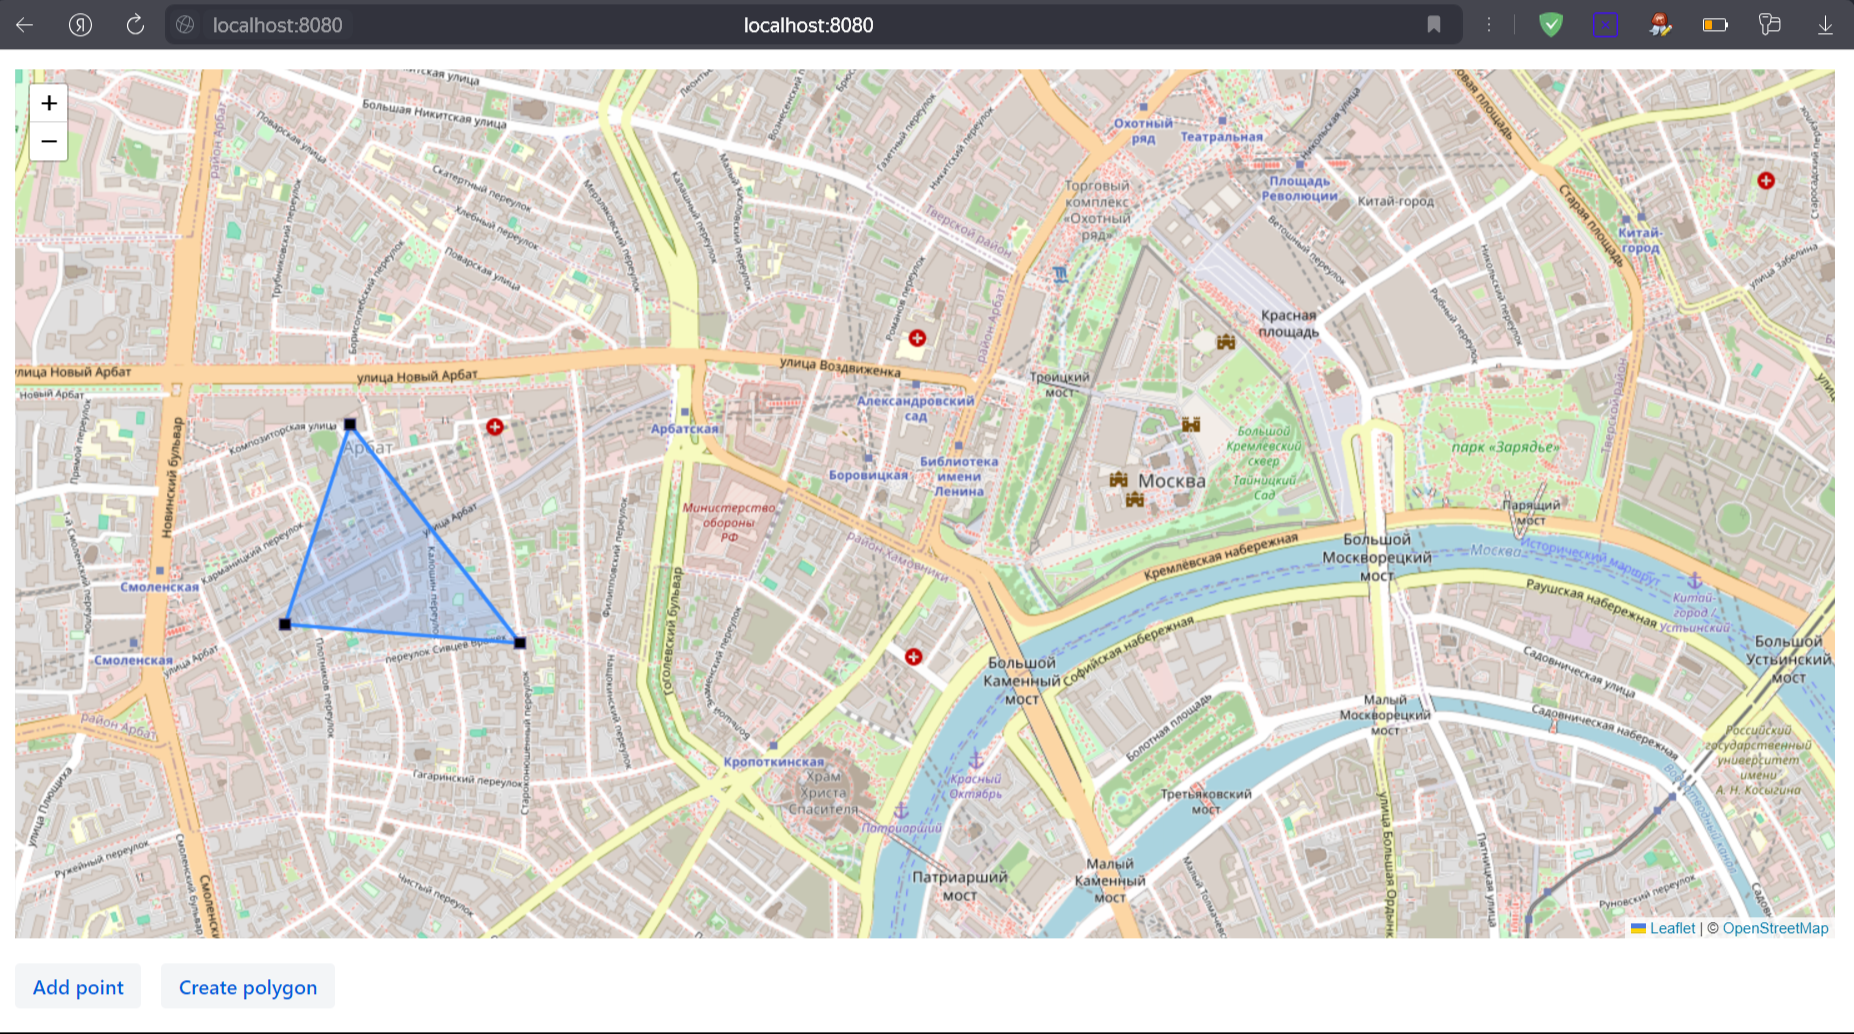
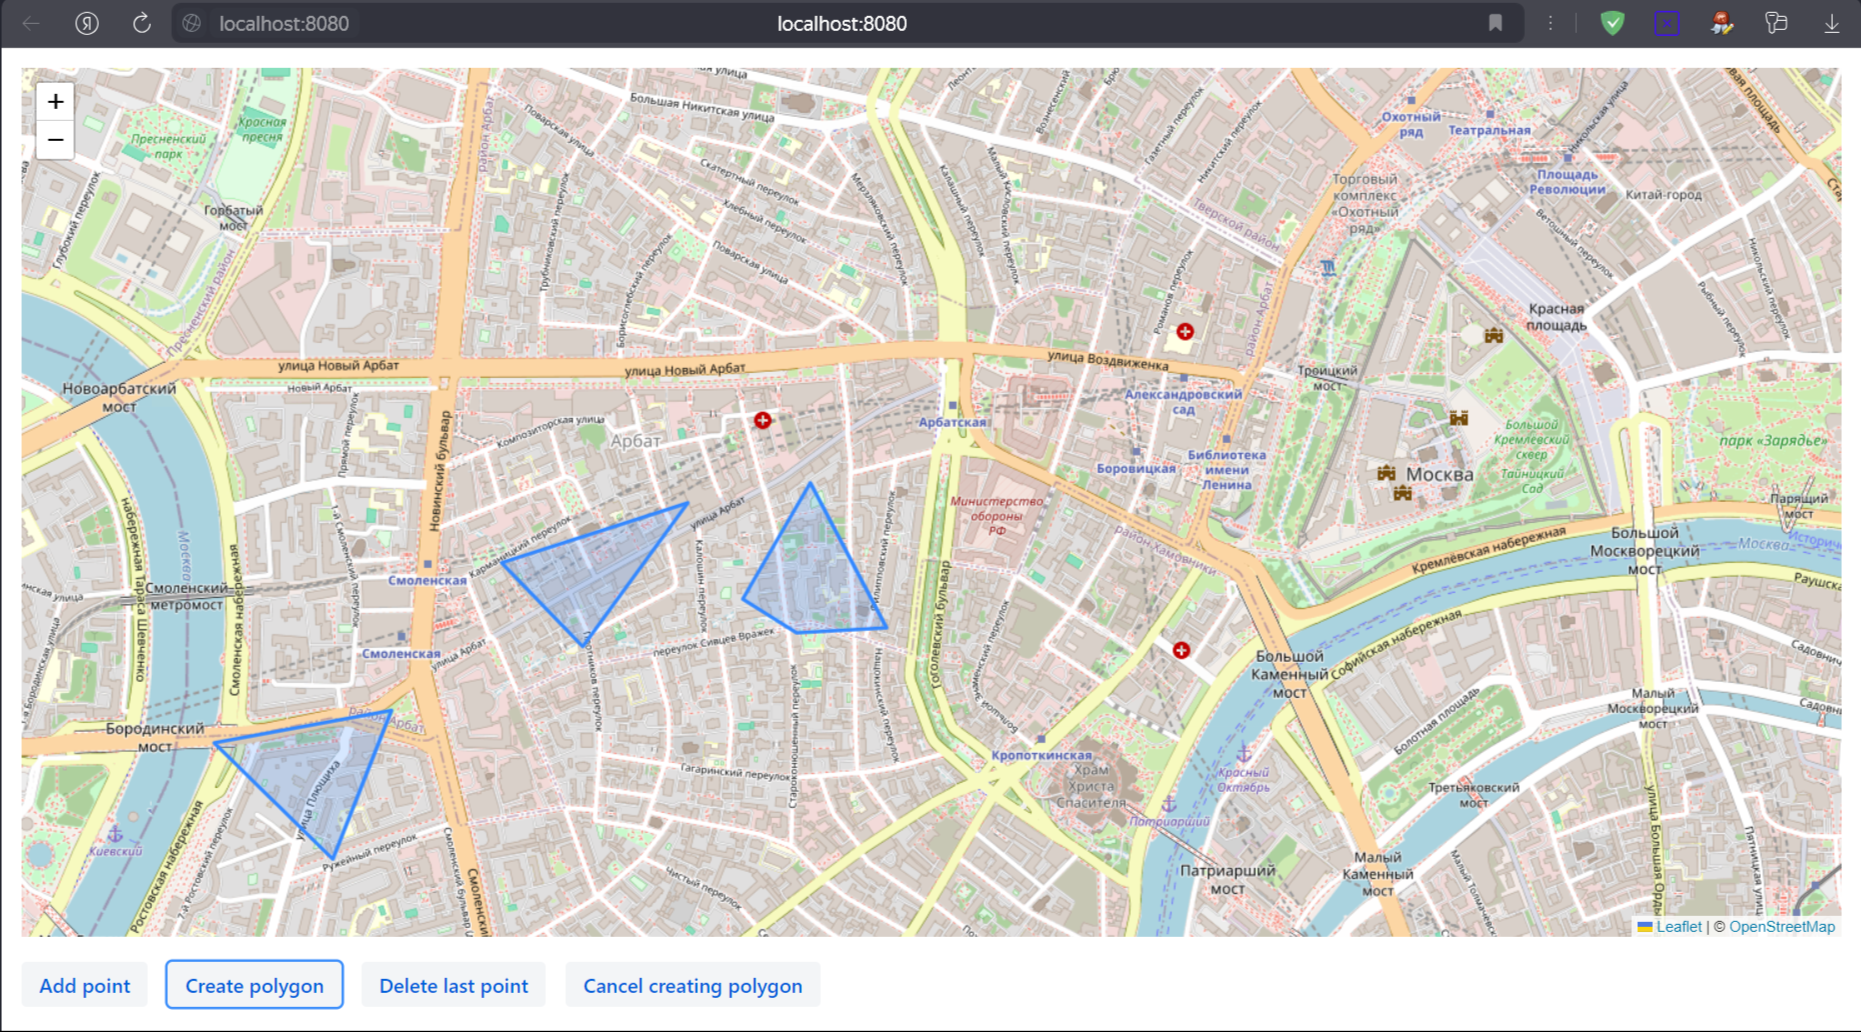
added buttons: delete last point, cancel creating polygon

diff --git a/src/main/java/ru/edd/stupor_maps/view/Maps.java b/src/main/java/ru/edd/stupor_maps/view/Maps.java
@@ -22,9 +22,6 @@ import software.xdev.vaadin.maps.leaflet.registry.LDefaultComponentManagementReg
 
 import java.util.ArrayList;
 import java.util.List;
-import java.util.Queue;
-import java.util.concurrent.ConcurrentLinkedQueue;
-
 
 
 @Route("")
@@ -32,7 +29,8 @@ public class Maps extends VerticalLayout {
     private final String ID = "myMap";
     private final LComponentManagementRegistry reg;
 
-    private final Queue<Coordinates> pointsPolygon = new ConcurrentLinkedQueue<>();
+    private List<Coordinates> pointsPolygonCoordinates = new ArrayList<>();
+    private List<LMarker> markers = new ArrayList<>();
 
     private final LMap map;
 
@@ -60,13 +58,20 @@ public class Maps extends VerticalLayout {
 
         Button createPolygon = new Button("Create polygon", this::creatingPolygon);
         Button addPoint = new Button("Add point", ev -> map.on("click", clickFuncReference));
+        Button cancelCreatingPolygon = new Button("Cancel creating polygon", this::cancelCreatingPolygon);
+        Button deleteLastPoint = new Button("Delete last point", this::deleteLastPoint);
 
-        hlButtons.add(addPoint);
-        hlButtons.add(createPolygon);
+        hlButtons.add(addPoint, createPolygon, deleteLastPoint, cancelCreatingPolygon);
         hlButtons.setWidthFull();
 
         return hlButtons;
     }
+
+    private void deleteLastPoint(ClickEvent<Button> buttonClickEvent) {
+            pointsPolygonCoordinates.remove(pointsPolygonCoordinates.size()-1);
+            map.removeLayer(markers.remove(markers.size()-1));
+    }
+
     private LMap configureMap() {
         final LMap map;
         final MapContainer mapContainer = new MapContainer(reg);
@@ -87,16 +92,28 @@ public class Maps extends VerticalLayout {
 
         List<LLatLng> lLatLngs = new ArrayList<>();
 
-        while (!pointsPolygon.isEmpty()) {
-            Coordinates coordinates = pointsPolygon.poll();
+        for (Coordinates coordinates : pointsPolygonCoordinates) {
             lLatLngs.add(new LLatLng(reg, coordinates.getX(), coordinates.getY()));
 
-            System.out.printf("%d. x = %s, y = %s%n", count, coordinates.getX(), coordinates.getY());
-            count++;
+            System.out.printf("%d. x = %s, y = %s%n",
+                    count,
+                    coordinates.getX(),
+                    coordinates.getY());
+            count ++;
         }
+
+        markers.forEach(map::removeLayer);
 
         LPolygon lPolygon = new LPolygon(reg, lLatLngs);
         map.addLayer(lPolygon);
+
+        markers.clear();
+        pointsPolygonCoordinates.clear();
+    }
+    private void cancelCreatingPolygon(ClickEvent<Button> click) {
+        markers.forEach(map::removeLayer);
+        markers.clear();
+        pointsPolygonCoordinates.clear();
     }
 
     private LIcon createIconMarker() {
@@ -115,7 +132,11 @@ public class Maps extends VerticalLayout {
         lMarker.setIcon(createIconMarker());
 
         map.addLayer(lMarker);
-        pointsPolygon.add(new Coordinates(x, y));
+        markers.add(lMarker);
 
+        Coordinates coordinates = new Coordinates(x, y);
+
+        if (!pointsPolygonCoordinates.contains(coordinates))
+            pointsPolygonCoordinates.add(new Coordinates(x, y));
     }
 }

diff --git a/src/main/java/ru/edd/stupor_maps/models/Coordinates.java b/src/main/java/ru/edd/stupor_maps/models/Coordinates.java
@@ -3,13 +3,29 @@ package ru.edd.stupor_maps.models;
 
 import lombok.*;
 
-@NoArgsConstructor
+import java.io.Serializable;
+import java.util.Objects;
+
 @AllArgsConstructor
+@NoArgsConstructor
 @Getter
 @Setter
 @Builder
-public class Coordinates {
+public class Coordinates{
 
     private double x;
     private double y;
+
+    @Override
+    public boolean equals(Object o) {
+        if (this == o) return true;
+        if (o == null || getClass() != o.getClass()) return false;
+        Coordinates that = (Coordinates) o;
+        return Double.compare(x, that.x) == 0 && Double.compare(y, that.y) == 0;
+    }
+
+    @Override
+    public int hashCode() {
+        return Objects.hash(x, y);
+    }
 }
